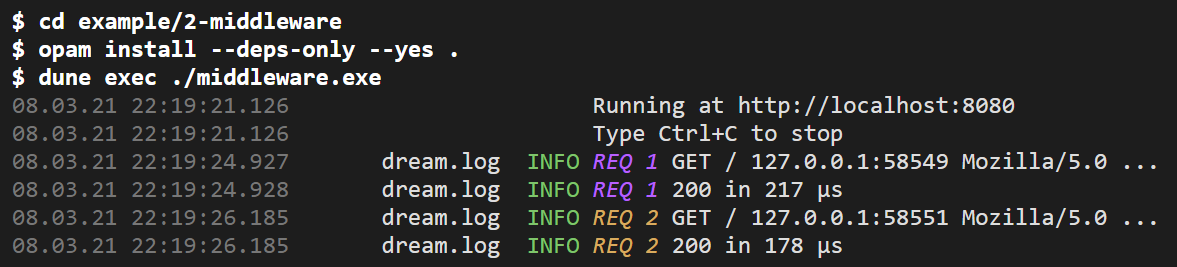
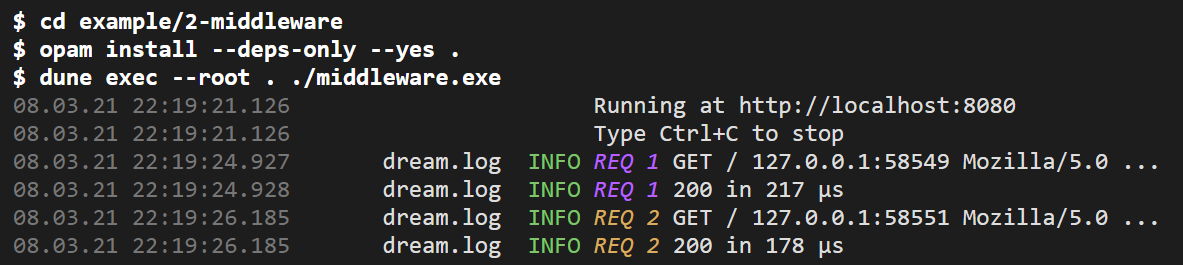
Examples: add --root . to build steps
Resolves #308.

diff --git a/docs/asset/log-sanitized.html b/docs/asset/log-sanitized.html
@@ -40,7 +40,7 @@ b {
 
 <pre><code><b>$ cd example/2-middleware</b>
 <b>$ opam install --deps-only --yes .</b>
-<b>$ dune exec ./middleware.exe</b>
+<b>$ dune exec --root . ./middleware.exe</b>
 <span class="dim">08.03.21 22:19:21.126</span>                       Running at http://localhost:8080
 <span class="dim">08.03.21 22:19:21.126</span>                       Type Ctrl+C to stop
 <span class="dim">08.03.21 22:19:24.927</span>       dream.log  <span class="info">INFO</span> <span class="odd">REQ 1</span> GET / 127.0.0.1:58549 Mozilla/5.0 ...

diff --git a/example/w-fullstack-jsoo/README.md b/example/w-fullstack-jsoo/README.md
@@ -56,10 +56,10 @@ To run the example, do
 
 <pre><code><b>$ cd example/w-fullstack-jsoo</b>
 <b>$ opam install --deps-only --yes .</b>
-<b>$ dune build client/client.bc.js
+<b>$ dune build --root . client/client.bc.js
 $ mkdir -p static
 $ cp _build/default/client/client.bc.js static/client.js
-$ dune exec server/server.exe
+$ dune exec --root . server/server.exe
 </b></code></pre>
 
 Then visit [http://localhost:8080](http://localhost:8080), and you will see...

diff --git a/example/1-hello/README.md b/example/1-hello/README.md
@@ -18,7 +18,7 @@ browser. Your terminal probably makes the link clickable.
 
 <pre><code><b>$ cd example/1-hello</b>
 <b>$ opam install --deps-only --yes .</b>
-<b>$ dune exec ./hello.exe</b>
+<b>$ dune exec --root . ./hello.exe</b>
 08.03.21 21:17:21.471                       Running at http://localhost:8080
 08.03.21 21:17:21.471                       Type Ctrl+C to stop
 </code></pre>

diff --git a/example/r-fullstack-melange/README.md b/example/r-fullstack-melange/README.md
@@ -71,7 +71,7 @@ $ npm install esbuild --no-save
 $ dune build --root . @melange
 $ mkdir -p static
 $ npx esbuild _build/default/client/client/client/client.js --bundle --outfile=static/client.js
-$ dune exec server/server.exe
+$ dune exec --root . server/server.exe
 </b></code></pre>
 
 Then visit [http://localhost:8080](http://localhost:8080), and you will see...

diff --git a/example/w-stress-response/README.md b/example/w-stress-response/README.md
@@ -7,7 +7,7 @@ by default. To use,
 
 <pre><code><b>$ cd example/w-stress-response</b>
 <b>$ opam install --deps-only --yes .</b>
-<b>$ dune exec ./stress_response.exe</b>
+<b>$ dune exec --root . ./stress_response.exe</b>
 <b>$ curl http://localhost:8080 > /dev/null &</b></code></pre>
 
 The `curl` command can be repeated for multiple concurrent clients, to check

diff --git a/example/w-one-binary/README.md b/example/w-one-binary/README.md
@@ -76,7 +76,7 @@ To build the whole setup, just do
 
 <pre><code><b>$ cd example/w-one-binary</b>
 <b>$ opam install --deps-only --yes .</b>
-<b>$ dune exec ./one_binary.exe</b></code></pre>
+<b>$ dune exec --root . ./one_binary.exe</b></code></pre>
 
 You can now visit
 [http://localhost:8080/assets/camel.jpeg](http://localhost:8080/assets/camel.jpeg)

diff --git a/example/f-static/README.md b/example/f-static/README.md
@@ -6,7 +6,7 @@ Run this example:
 
 <pre><code><b>$ cd example/f-static</b>
 <b>$ opam install --deps-only --yes .</b>
-<b>$ dune exec ./static.exe</b></code></pre>
+<b>$ dune exec --root . ./static.exe</b></code></pre>
 
 ...and visit
 [http://localhost:8080/static/static.ml](http://localhost:8080/static/static.ml).

diff --git a/example/e-json/README.md b/example/e-json/README.md
@@ -63,7 +63,7 @@ The build commands, as always, are:
 
 <pre><code><b>$ cd example/e-json</b>
 <b>$ opam install --deps-only --yes .</b>
-<b>$ dune exec ./json.exe</b></code></pre>
+<b>$ dune exec --root . ./json.exe</b></code></pre>
 
 You can try this example in the [playground](http://dream.as/e-json).
 

diff --git a/example/w-watch/README.md b/example/w-watch/README.md
@@ -7,7 +7,7 @@ and run your server when you make changes.
 
 <pre><code><b>$ cd example/w-watch</b>
 <b>$ opam install --deps-only --yes .</b>
-<b>$ dune exec --watch ./hello.exe</b></code></pre>
+<b>$ dune exec --root . --watch ./hello.exe</b></code></pre>
 
 Note that this requires Dune 3.7.0 or higher.
 

diff --git a/example/w-template-stream/README.md b/example/w-template-stream/README.md
@@ -30,7 +30,7 @@ let () =
 
 <pre><code><b>$ cd example/w-template-stream</b>
 <b>$ opam install --deps-only --yes .</b>
-<b>$ dune exec ./template_stream.exe</b></code></pre>
+<b>$ dune exec --root . ./template_stream.exe</b></code></pre>
 
 Try it in the [playground](http://dream.as/w-template-stream).
 

diff --git a/example/w-upload-stream/README.md b/example/w-upload-stream/README.md
@@ -61,7 +61,7 @@ let () =
 
 <pre><code><b>cd example/w-upload-stream</b>
 <b>$ opam install --deps-only --yes .</b>
-<b>$ dune exec ./upload_stream.exe</b></code></pre>
+<b>$ dune exec --root . ./upload_stream.exe</b></code></pre>
 
 Try it in the [playground](http://dream.as/w-upload-stream).
 

diff --git a/example/w-template-logic/README.md b/example/w-template-logic/README.md
@@ -69,7 +69,7 @@ let () =
 
 <pre><code><b>$ cd example/w-template-logic</b>
 <b>$ opam install --deps-only --yes .</b>
-<b>$ dune exec ./template.exe</b></code></pre>
+<b>$ dune exec --root . ./template.exe</b></code></pre>
 
 Try it in the [playground](http://dream.as/w-template-logic).
 
